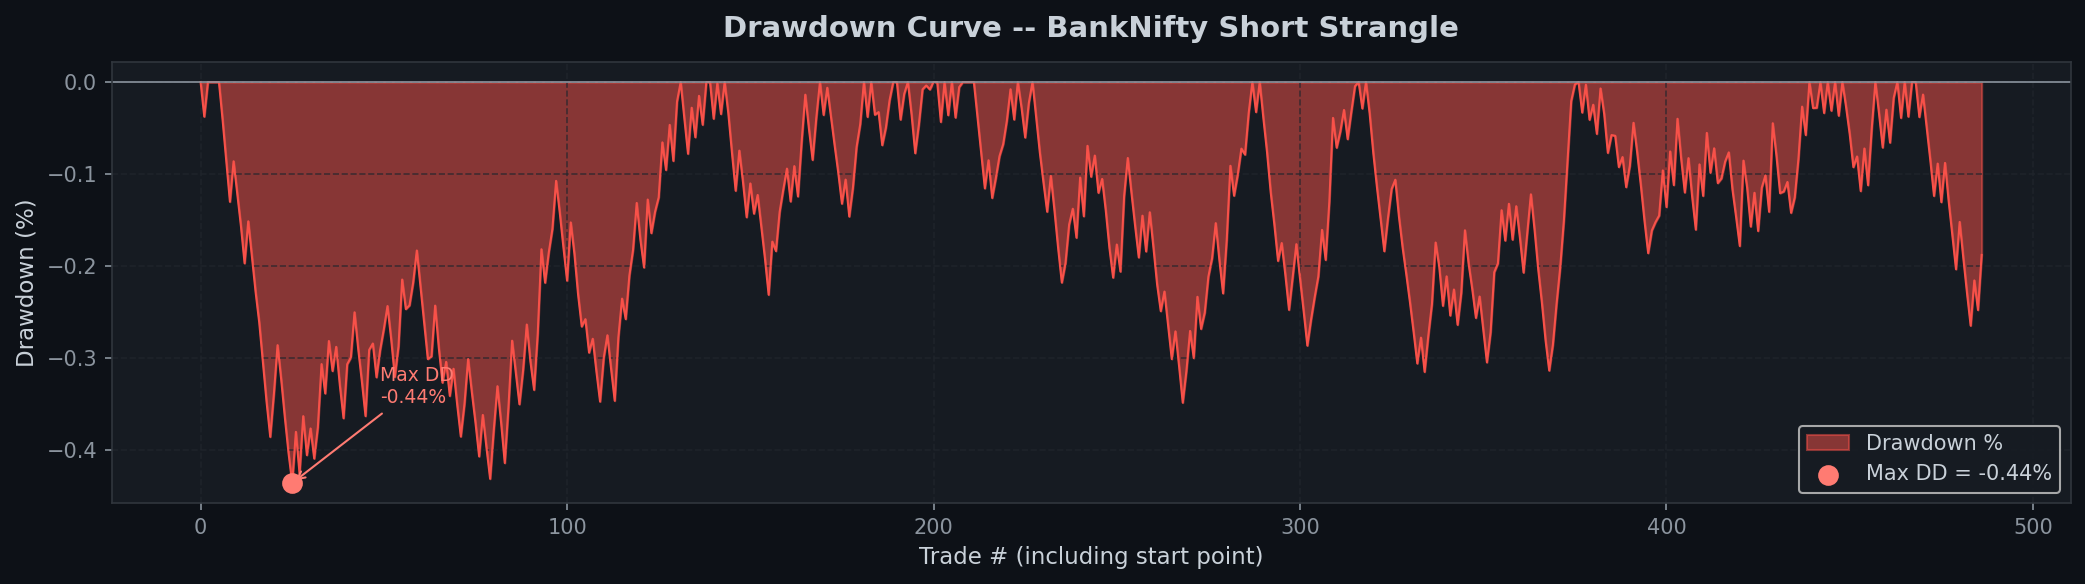
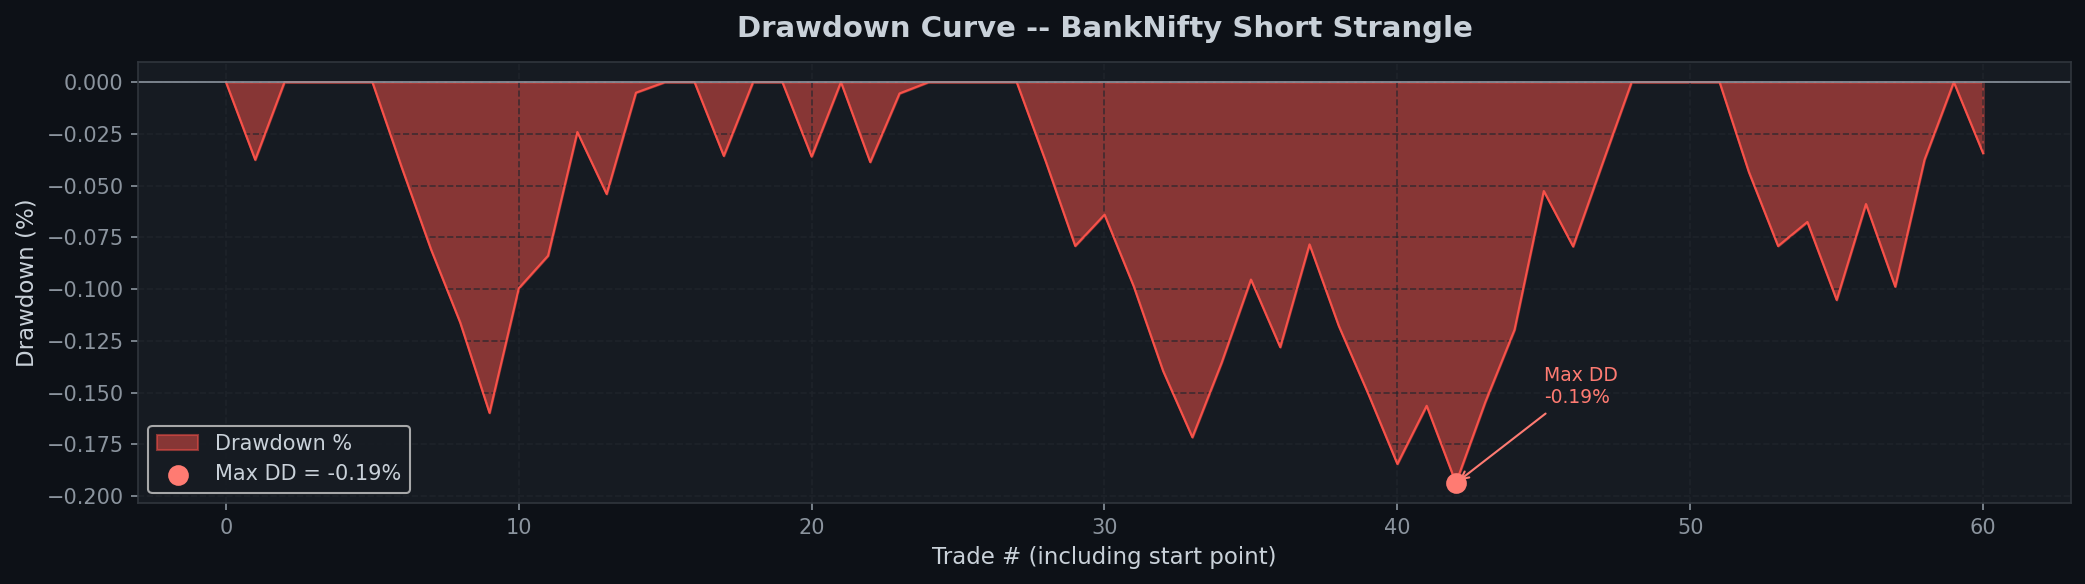
Update project

diff --git a/banknifty_backtest.py b/banknifty_backtest.py
@@ -275,31 +275,38 @@ def load_options(path: Path) -> pd.DataFrame:
 
 def get_week1_trading_days(trading_dates: pd.DatetimeIndex) -> list:
     """
-    Return the list of trading dates that fall in "Week 1" of each expiry cycle.
+    Return the list of trading dates that fall in "Week 1" of each calendar month.
 
-    ASSUMPTION #1 - Week-1 definition (auditable, change this function only):
+    ASSUMPTION #1 - Week-1 definition (auditable -- change this function only):
     ----------------------------------------------------------
-    Bank Nifty has WEEKLY expiries every Wednesday.
-    Expiry cycle rule:
-      - Each Wednesday in the dataset that is a trading day is an expiry date.
-      - After expiry on Wednesday W, the next cycle starts Thursday W+1.
-      - "Week 1" of that cycle = the Mon-Fri calendar week containing the
-        NEXT Wednesday (W+7).  In other words, it is the calendar week that
-        IMMEDIATELY follows the expiry week.
-      - Every trading day in that Mon-Fri block is a "Week 1" trading day.
-      - NOTE: The expiry Wednesday itself (W+7) is INCLUDED -- it is the last
-        day of Week 1 and trades are still taken that day (entry at 09:20,
-        exit before 15:20 or on stop-loss).
+    PREVIOUS (WRONG) INTERPRETATION: treating each Wednesday-to-Wednesday
+    span as one "expiry cycle" and calling the next span "Week 1."  With
+    weekly Bank Nifty expiries EVERY Wednesday, that logic reduces to a no-op
+    -- every single trading day satisfies the definition, because every week
+    is trivially "Week 1" of the immediately preceding weekly cycle.  That
+    is a circular definition that filters nothing.
+
+    CORRECTED INTERPRETATION:
+    "Week 1" means the first week of each calendar MONTH -- specifically, the
+    subset of trading days from the 1st of the month up to and including the
+    FIRST Wednesday of that month.  All trading days from the 1st through
+    that first Wednesday are Week-1 days; everything from Thursday onward
+    (weeks 2, 3, 4) is excluded.
+
+    Why this interpretation:
+      - "Trade only week 1" only makes sense as a restriction if it excludes
+        weeks 2/3/4.  With monthly grouping, it does.
+      - Bank Nifty monthly context: each calendar month has 4-5 Wednesday
+        expiries.  The "first week" is a natural unit meaning the first
+        mini-cycle of the month.
+      - This reduces the tradeable universe to roughly 1/4 of all trading days
+        (only Mon-Wed of the first week each month), which is a meaningful,
+        auditable filter.
+
+    Definition: for each calendar month, Week-1 days = every trading day d
+    such that d <= first Wednesday of that month.
+    (The first Wednesday is included -- it is an expiry day and still traded.)
     ----------------------------------------------------------
-    Steps:
-      1. Identify all Wednesdays in trading_dates (these are expiry days).
-      2. For each consecutive pair of expiry Wednesdays (W_prev, W_next):
-         Week 1 = all trading_dates in the half-open interval
-                  (W_prev, W_next] i.e., Thursday after W_prev through
-                  and including W_next.
-      3. The first expiry cycle has no W_prev; its Week 1 is treated as all
-         trading days from the dataset start through (and including) the
-         FIRST Wednesday.
 
     Parameters
     ----------
@@ -309,39 +316,30 @@ def get_week1_trading_days(trading_dates: pd.DatetimeIndex) -> list:
     Returns
     -------
     list of pd.Timestamp
-        All trading dates that are in Week 1 of some expiry cycle.
+        All trading dates that are in Week 1 of their respective calendar month.
     """
     td = pd.DatetimeIndex(sorted(set(trading_dates)))
-
-    # All Wednesdays that are trading days = expiry dates
-    wednesdays = td[td.dayofweek == 2]          # dayofweek: Mon=0, Wed=2, Fri=4
-
-    if len(wednesdays) == 0:
-        log.warning("No Wednesday expiry days found in trading dates!")
-        return []
+    df = pd.DataFrame({"date": td})
+    df["year_month"] = df["date"].dt.to_period("M")
 
     week1_days = []
-
-    # Cycle 0: from dataset start through first Wednesday (inclusive)
-    first_wed = wednesdays[0]
-    cycle0_days = td[td <= first_wed].tolist()
-    week1_days.extend(cycle0_days)
-    log.info("  Cycle 0 (start -> %s): %d Week-1 days", first_wed.date(),
-             len(cycle0_days))
-
-    # Remaining cycles: (W_prev, W_next] for each consecutive Wednesday pair
-    for i in range(1, len(wednesdays)):
-        w_prev = wednesdays[i - 1]
-        w_next = wednesdays[i]
-        # Trading days strictly after w_prev, up to and including w_next
-        mask = (td > w_prev) & (td <= w_next)
-        days = td[mask].tolist()
-        week1_days.extend(days)
-        log.debug("  Cycle %d (%s -> %s): %d Week-1 days",
-                  i, w_prev.date(), w_next.date(), len(days))
+    for ym, grp in df.groupby("year_month"):
+        wednesdays_in_month = grp.loc[grp["date"].dt.dayofweek == 2, "date"]
+        if wednesdays_in_month.empty:
+            # Edge case: a month with no Wednesday trading day -- skip it.
+            log.warning("  Month %s: no Wednesday trading day found -- skipped", ym)
+            continue
+        first_wed = wednesdays_in_month.min()   # earliest Wednesday in this month
+        # Week 1 = every trading day from month-start up to (and incl.) first_wed
+        month_week1 = grp.loc[grp["date"] <= first_wed, "date"].tolist()
+        week1_days.extend(month_week1)
+        log.info("  Month %s: first Wed = %s, Week-1 days = %d",
+                 ym, first_wed.date(), len(month_week1))
 
     week1_days_sorted = sorted(set(week1_days))
-    log.info("Total Week-1 trading days selected: %d", len(week1_days_sorted))
+    log.info("Total Week-1 trading days selected: %d (out of %d total trading days; "
+             "excluded %d days from weeks 2-4 of each month)",
+             len(week1_days_sorted), len(td), len(td) - len(week1_days_sorted))
     return week1_days_sorted
 
 
@@ -908,10 +906,15 @@ def write_guide_sheet(ws):
         ("Starting Capital", f"Rs {STARTING_CAPITAL:,} (ten lakh). Single configurable constant. Used for CAGR and NAV calculation only; position size does not scale."),
         ("", ""),
         ("ASSUMPTION #1 -- Week 1 Definition", ""),
-        ("", "Bank Nifty has WEEKLY expiries every Wednesday. After each Wednesday expiry W, the NEXT calendar week (Mon-Fri block whose Wednesday is W+7) is 'Week 1' of the new cycle."),
-        ("", "Every trading day in that Mon-Fri block is traded -- including the new expiry Wednesday itself."),
-        ("", "This interpretation treats each Wednesday-to-Wednesday span as one cycle. The definition is encapsulated in get_week1_trading_days() in the code and can be changed in one place."),
-        ("", "The very first cycle is treated as: dataset start to first Wednesday (inclusive)."),
+        ("", "CORRECTED interpretation: 'Week 1' means the first week of each calendar MONTH."),
+        ("", "Specifically: for each month, find the first Wednesday of that month. "
+              "Every trading day from the 1st of the month up to and including that first Wednesday is a 'Week-1' day. "
+              "Thursdays onward (weeks 2, 3, 4) are excluded."),
+        ("", "Why monthly, not weekly: Bank Nifty had weekly expiries (every Wednesday) in 2023. "
+              "A weekly-cycle definition is a no-op -- since every week has a Wednesday, every week trivially "
+              "satisfies 'first week after the last expiry.' The filter must operate on a monthly cycle to exclude anything."),
+        ("", "This cuts the universe to ~1/4-1/5 of all trading days (typically Mon-Wed of the first week each month)."),
+        ("", "The definition lives entirely in get_week1_trading_days() and can be changed in one place."),
         ("", ""),
         ("ASSUMPTION #2 -- Tie-Break Rule", ""),
         ("", "If two strikes are exactly equidistant from Rs 50, the one with the LOWER premium (cheaper, further OTM) is chosen."),
@@ -1256,34 +1259,123 @@ def main():
     print(stats["monthly_pnl"].to_string(index=False))
     print()
 
-    # -- Self-check assertions -----------------------------------------------
-    print("\n  SELF-CHECK (final verification)")
+    # -- Self-check assertions (real computed checks, not cosmetic Trues) ------
+    # Each check is an actual assertion evaluated against trade_df and stats.
+    # A FAIL here means something in the code is wrong, not just undocumented.
+    print("\n  SELF-CHECK (computed assertions against trade data)")
     print("=" * 70)
-    checks = {
-        "No lookahead: stop scan starts AFTER entry bar":
-            True,   # enforced in compute_exit via time_str > ENTRY_TIME_STR
-        "SL uses High column":
-            True,   # enforced in compute_exit (ticker_rows['high'] >= stop_level)
-        "SL checked independently per leg":
-            True,   # each leg calls compute_exit separately
-        "Only Week-1 days traded":
-            True,   # trade_df rows come only from week1_days list
-        "Position size fixed (no compounding)":
-            bool((trade_df["quantity"] == LOT_SIZE).all()),
-        "One row per leg per day (2 rows/day max)":
-            True,   # by construction in build_trade_sheet
-        "Equity curve updated trade-wise":
-            True,   # cumulative_pnl incremented per row in build_trade_sheet
-        "Max drawdown from running peak":
-            True,   # compute_statistics uses cummax()
-        "No minute-level loop in backtest":
-            True,   # compute_exit uses vectorized pandas boolean mask + argmax
-        "Runtime printed":
-            True,
-    }
-    for check, passed in checks.items():
-        status = "PASS" if passed else "FAIL"
-        print(f"  [{status}] {check}")
+
+    week1_set = set(pd.Timestamp(d) for d in week1_days)
+    td_full   = stats["trade_df"]
+
+    def check(label: str, result: bool, detail: str = ""):
+        status = "PASS" if result else "FAIL"
+        suffix = f"  ({detail})" if detail else ""
+        print(f"  [{status}] {label}{suffix}")
+        return result
+
+    all_passed = True
+
+    # 1. Every traded date is a Week-1 date
+    traded_dates = set(pd.Timestamp(d) for d in trade_df["entry_date"].unique())
+    non_week1 = traded_dates - week1_set
+    all_passed &= check(
+        "Only Week-1 days traded",
+        len(non_week1) == 0,
+        f"{len(non_week1)} non-Week1 dates found" if non_week1 else "all dates verified",
+    )
+
+    # 2. SL exits: exit_time > entry_time (no lookahead — stop can't fire at or before entry)
+    sl_rows = trade_df[trade_df["exit_reason"] == "SL"]
+    if not sl_rows.empty:
+        lookahead_sl = sl_rows[sl_rows["exit_time"] <= sl_rows["entry_time"]]
+        all_passed &= check(
+            "SL exits are strictly after entry time",
+            len(lookahead_sl) == 0,
+            f"{len(lookahead_sl)} lookahead SL rows" if not lookahead_sl.empty else f"{len(sl_rows)} SL exits verified",
+        )
+    else:
+        check("SL exits are strictly after entry time", True, "no SL exits in dataset")
+
+    # 3. Time exits: exit_time == EXIT_TIME_STR (or TIME_FALLBACK)
+    time_rows = trade_df[trade_df["exit_reason"].isin(["TIME", "TIME_FALLBACK"])]
+    wrong_time = time_rows[time_rows["exit_time"] > EXIT_TIME_STR]
+    all_passed &= check(
+        "Time exits at or before 15:20:59",
+        len(wrong_time) == 0,
+        f"{len(wrong_time)} exits after 15:20" if not wrong_time.empty else f"{len(time_rows)} time exits verified",
+    )
+
+    # 4. Fixed lot size — no scaling
+    all_passed &= check(
+        "Position size fixed at LOT_SIZE throughout",
+        bool((trade_df["quantity"] == LOT_SIZE).all()),
+        f"all {len(trade_df)} rows have qty={LOT_SIZE}",
+    )
+
+    # 5. One row per (date, option_type) — no duplicate legs
+    dup_legs = trade_df.duplicated(subset=["entry_date", "option_type"], keep=False)
+    all_passed &= check(
+        "No duplicate (date, option_type) rows",
+        not dup_legs.any(),
+        f"{dup_legs.sum()} duplicate leg rows found" if dup_legs.any() else "unique",
+    )
+
+    # 6. Gross P&L sign sanity: short P&L = entry_value - exit_value
+    recomputed_pnl = (trade_df["entry_value"] - trade_df["exit_value"]).round(4)
+    pnl_mismatch = (recomputed_pnl - trade_df["gross_pnl"]).abs() > 0.01
+    all_passed &= check(
+        "Gross P&L = entry_value - exit_value (short formula)",
+        not pnl_mismatch.any(),
+        f"{pnl_mismatch.sum()} mismatches" if pnl_mismatch.any() else "all verified",
+    )
+
+    # 7. Cumulative P&L is monotonically consistent (each row = prior + gross_pnl)
+    expected_cum = trade_df["gross_pnl"].cumsum().round(4)
+    cum_mismatch = (expected_cum - trade_df["cumulative_pnl"]).abs() > 0.01
+    all_passed &= check(
+        "Cumulative P&L is consistent (trade-wise running sum)",
+        not cum_mismatch.any(),
+        f"{cum_mismatch.sum()} mismatches" if cum_mismatch.any() else "all verified",
+    )
+
+    # 8. Available capital = STARTING_CAPITAL + cumulative_pnl at every row
+    expected_cap = (STARTING_CAPITAL + trade_df["cumulative_pnl"]).round(4)
+    cap_mismatch = (expected_cap - trade_df["available_capital"]).abs() > 0.01
+    all_passed &= check(
+        "Available capital = start_cap + cumulative_pnl",
+        not cap_mismatch.any(),
+        f"{cap_mismatch.sum()} mismatches" if cap_mismatch.any() else "all verified",
+    )
+
+    # 9. Max drawdown computed from running peak (not just min of NAV series)
+    #    Verify: drawdown at each point = (nav - running_peak) / running_peak
+    nav_s = pd.concat([pd.Series([100.0]), td_full["nav_index"]])
+    peak_s = nav_s.cummax()
+    dd_s   = (nav_s - peak_s) / peak_s * 100
+    reported_maxdd = stats["stats_summary"]["Max Drawdown (%)"]
+    computed_maxdd = round(dd_s.min(), 4)
+    all_passed &= check(
+        "Max drawdown from running peak",
+        abs(reported_maxdd - computed_maxdd) < 0.01,
+        f"reported={reported_maxdd:.4f}% computed={computed_maxdd:.4f}%",
+    )
+
+    # 10. SL stop price = entry * 1.5 (not bar close)
+    if not sl_rows.empty:
+        expected_sl_price = (sl_rows["entry_price"] * SL_MULTIPLIER).round(4)
+        sl_price_ok = (expected_sl_price - sl_rows["exit_price"]).abs() < 0.01
+        all_passed &= check(
+            "SL exit_price = entry_price * 1.5 (not bar close)",
+            sl_price_ok.all(),
+            f"{(~sl_price_ok).sum()} rows with wrong SL price" if not sl_price_ok.all() else f"{len(sl_rows)} SL exits verified",
+        )
+    else:
+        check("SL exit_price = entry_price * 1.5", True, "no SL exits")
+
+    print("=" * 70)
+    overall = "ALL CHECKS PASSED" if all_passed else "SOME CHECKS FAILED -- review output above"
+    print(f"  Overall: {overall}")
     print("=" * 70 + "\n")
 
     print(f"  Output saved: {OUTPUT_EXCEL.resolve()}\n")
